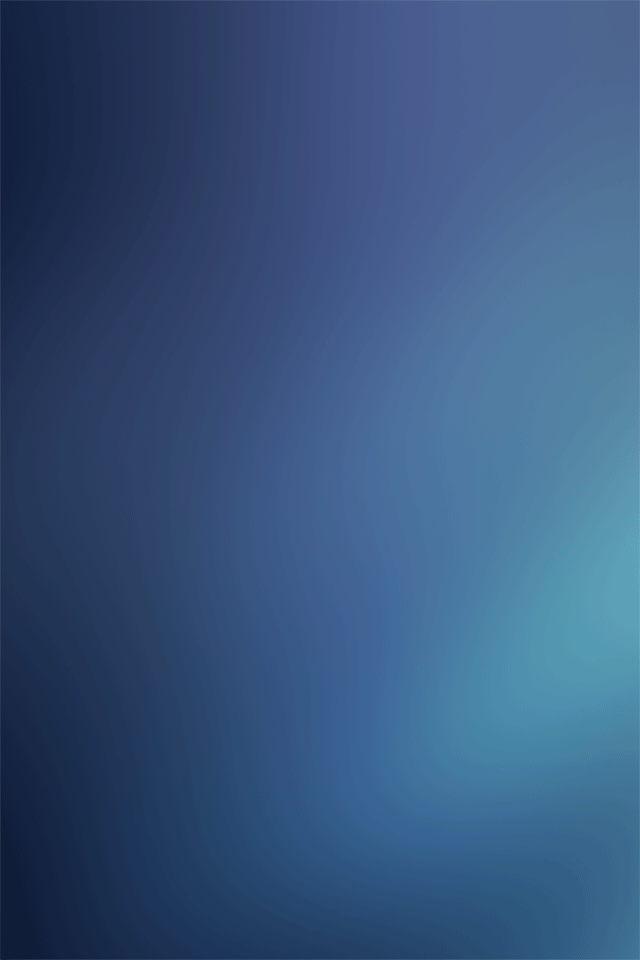
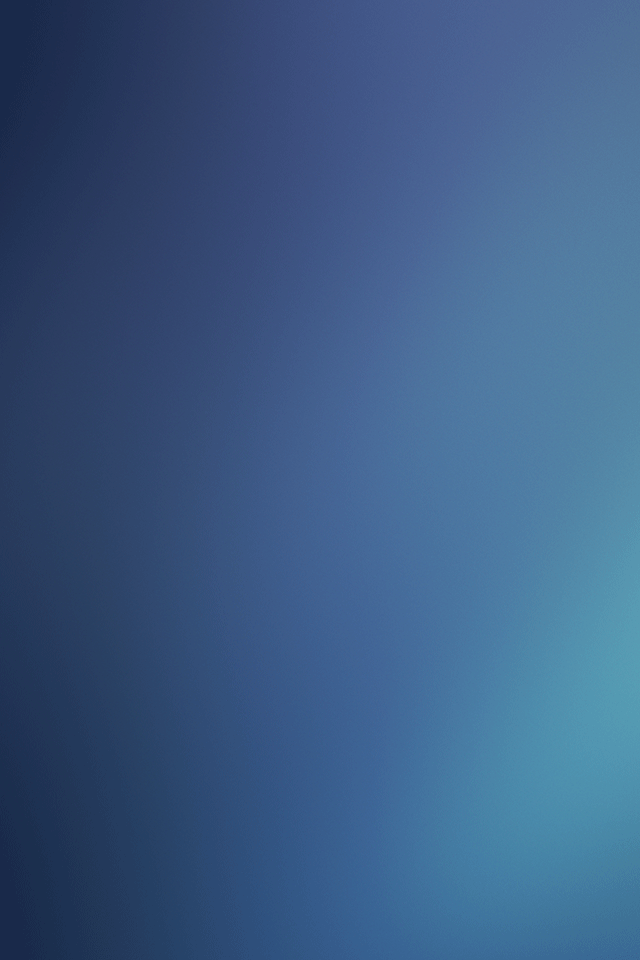
Updated background images (size and banding issues), set colours for buttons

Changed region(s): [[0.3125, 0.75, 1.0, 1.0]]

diff --git a/LastCigarette/RJIntroViewController.swift b/LastCigarette/RJIntroViewController.swift
@@ -53,15 +53,23 @@ class RJIntroViewController: UIViewController {
         introLabel.text = "Since my last cigarette..."
         introLabel.setTranslatesAutoresizingMaskIntoConstraints(false)
         
+        let settingsButton = UIButton.buttonWithType(UIButtonType.System) as! UIButton
+        settingsButton.setTranslatesAutoresizingMaskIntoConstraints(false)
+        settingsButton.setTitle("Go to Settings", forState: UIControlState.Normal)
+        settingsButton.addTarget(self, action: "okButtonTapped", forControlEvents: UIControlEvents.TouchUpInside)
+        settingsButton.backgroundColor = UIColor(red: 64/255.0, green: 102.0/255.0, blue: 150.0/255.0, alpha: 0.9)
+        settingsButton.setTitleColor(UIColor.whiteColor(), forState: UIControlState.Normal)
+        
         let okButton = UIButton.buttonWithType(UIButtonType.System) as! UIButton
         okButton.setTranslatesAutoresizingMaskIntoConstraints(false)
         okButton.setTitle("Gotcha. Let's get started!", forState: UIControlState.Normal)
         okButton.addTarget(self, action: "okButtonTapped", forControlEvents: UIControlEvents.TouchUpInside)
-        okButton.backgroundColor = UIColor.blueColor()
+        okButton.backgroundColor = UIColor(red: 21.0/255.0, green: 32.0/255.0, blue: 64.0/255.0, alpha: 0.9)
         okButton.setTitleColor(UIColor.whiteColor(), forState: UIControlState.Normal)
         
         view.addSubview(effectView)
         view.addSubview(introLabel)
+        view.addSubview(settingsButton)
         view.addSubview(okButton)
         
         //constraints
